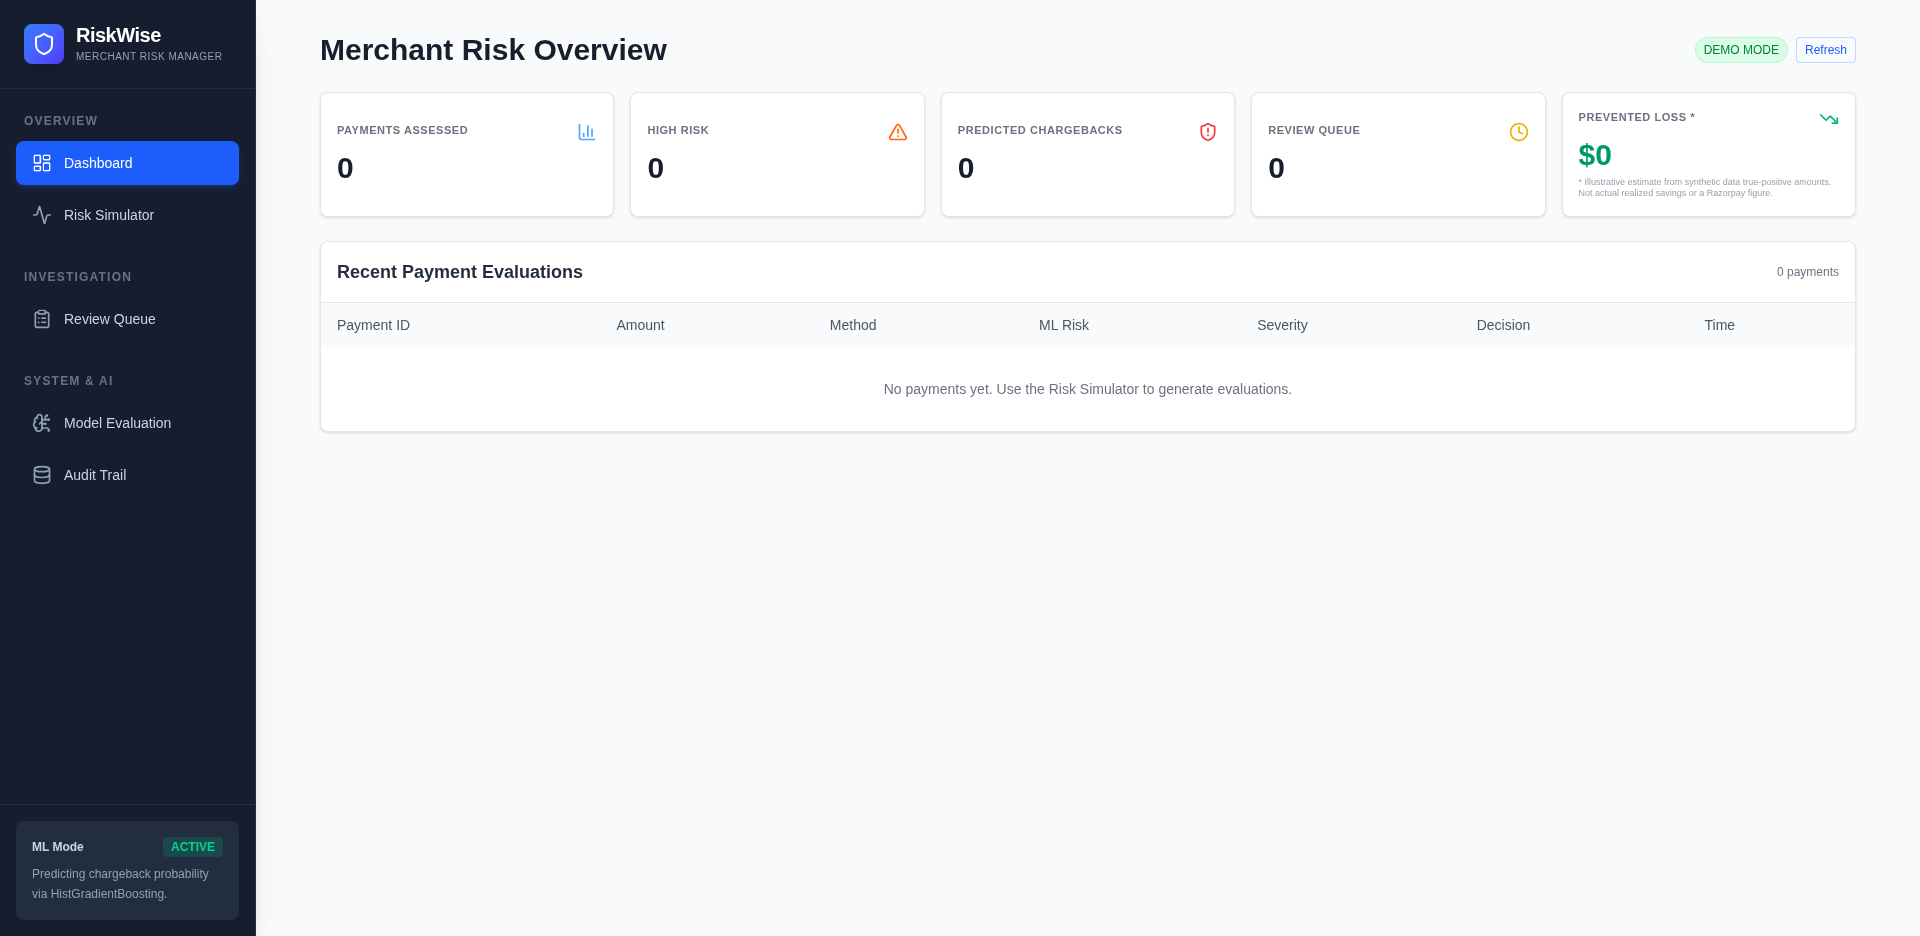
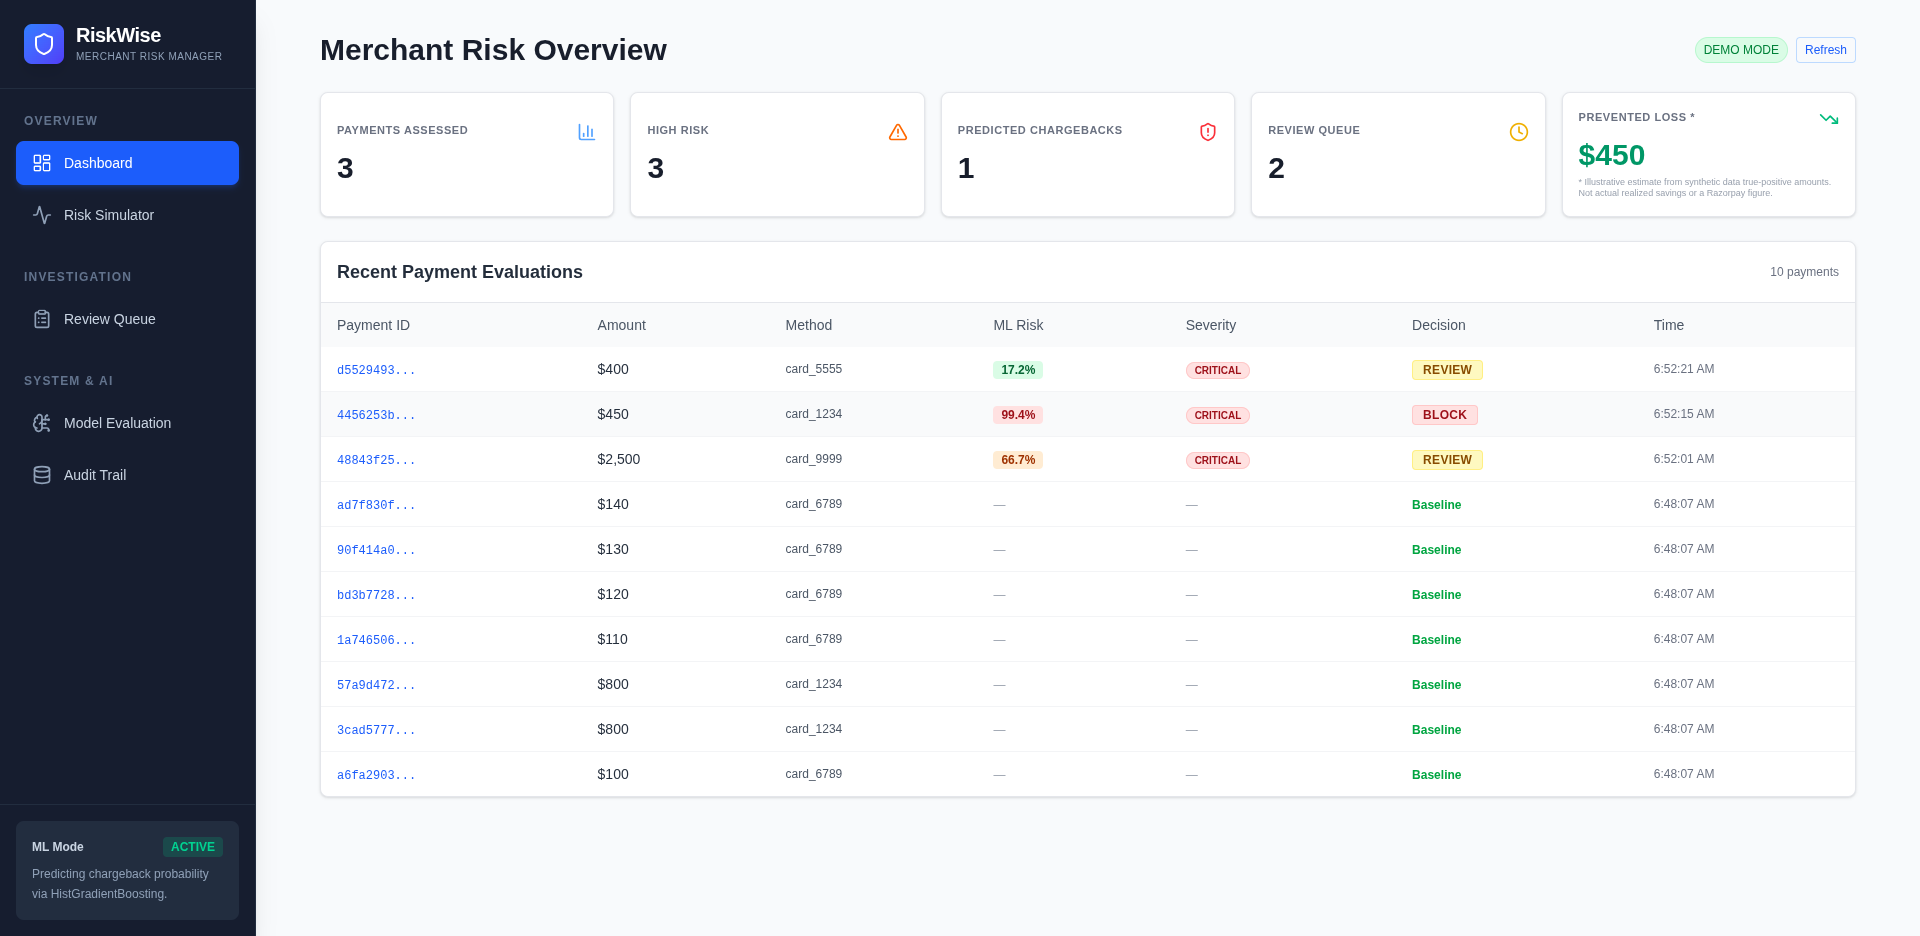
Mobile compatibility bugs fixed

diff --git a/src/components/ProjectStack3D.tsx b/src/components/ProjectStack3D.tsx
@@ -290,6 +290,7 @@ const ProjectStack3D = () => {
   const lastXRef = useRef(0);
   const velocityRef = useRef(0);
   const isHorizontalRef = useRef<boolean | null>(null);
+  const hasDraggedRef = useRef(false);
   const animationFrameRef = useRef<number>();
 
   // Custom CSS variables style object
@@ -305,6 +306,8 @@ const ProjectStack3D = () => {
   }, []);
 
   const openProject = (project: Project) => {
+    isDraggingRef.current = false;
+    isHorizontalRef.current = null;
     window.history.pushState({ modal: "project" }, "", "");
     setExpandedProject(project);
   };
@@ -316,6 +319,16 @@ const ProjectStack3D = () => {
       setExpandedProject(null);
     }
   };
+
+  // Reset pointer state when expandedProject changes
+  useEffect(() => {
+    if (expandedProject) {
+      isDraggingRef.current = false;
+      isHorizontalRef.current = null;
+      hasDraggedRef.current = false;
+      velocityRef.current = 0;
+    }
+  }, [expandedProject]);
 
   // JS-driven continuous rotation and drag handling
   useEffect(() => {
@@ -338,9 +351,56 @@ const ProjectStack3D = () => {
           }
         }
 
-        // Apply transform to the slider ref directly
+        const isMobile = window.innerWidth < 768;
+
         if (sliderRef.current) {
-          sliderRef.current.style.transform = `perspective(2500px) rotateX(-16deg) rotateY(${rotationRef.current}deg)`;
+          if (isMobile) {
+            // Mobile Coverflow
+            sliderRef.current.style.transform = `perspective(1200px) rotateX(0deg) rotateY(0deg)`;
+            
+            const progress = -rotationRef.current / (360 / PROJECTS.length);
+            const items = sliderRef.current.children;
+            
+            for (let i = 0; i < items.length; i++) {
+              const item = items[i] as HTMLElement;
+              let dist = (i - progress) % PROJECTS.length;
+              if (dist > PROJECTS.length / 2) dist -= PROJECTS.length;
+              if (dist < -PROJECTS.length / 2) dist += PROJECTS.length;
+              
+              const absDist = Math.abs(dist);
+              const isActive = absDist < 0.5;
+              
+              const zIndex = Math.max(0, 100 - Math.round(absDist * 10));
+              item.style.zIndex = zIndex.toString();
+              
+              if (absDist > 2.5) {
+                item.style.opacity = '0';
+                item.style.pointerEvents = 'none';
+              } else {
+                item.style.opacity = (1 - Math.max(0, absDist - 1.5) * 0.5).toString();
+                item.style.pointerEvents = isActive ? 'auto' : 'none';
+              }
+              
+              const translateX = dist * 85; 
+              const scale = Math.max(1 - 0.15 * absDist, 0.5);
+              const rotateY = dist * -25;
+              const translateZ = -absDist * 50;
+              
+              item.style.transform = `translateX(${translateX}%) translateZ(${translateZ}px) rotateY(${rotateY}deg) scale(${scale})`;
+            }
+          } else {
+            // Desktop Cylinder
+            sliderRef.current.style.transform = `perspective(2500px) rotateX(-16deg) rotateY(${rotationRef.current}deg)`;
+            
+            const items = sliderRef.current.children;
+            for (let i = 0; i < items.length; i++) {
+              const item = items[i] as HTMLElement;
+              item.style.transform = '';
+              item.style.zIndex = '';
+              item.style.opacity = '';
+              item.style.pointerEvents = '';
+            }
+          }
         }
       } else {
         // Reset lastTime to avoid huge delta jumps when modal closes
@@ -362,24 +422,17 @@ const ProjectStack3D = () => {
   const handlePointerDown = (e: React.PointerEvent) => {
     if (expandedProject) return;
 
-    isDraggingRef.current = true;
     startXRef.current = e.clientX;
     startYRef.current = e.clientY;
     lastXRef.current = e.clientX;
     velocityRef.current = 0;
     isHorizontalRef.current = null;
-
-    if (e.target instanceof Element) {
-      try {
-        e.target.setPointerCapture(e.pointerId);
-      } catch (err) {
-        // Ignore setPointerCapture errors on unmounted/invalid elements
-      }
-    }
+    isDraggingRef.current = false;
+    hasDraggedRef.current = false;
   };
 
   const handlePointerMove = (e: React.PointerEvent) => {
-    if (!isDraggingRef.current || expandedProject) return;
+    if (expandedProject) return;
 
     const deltaX = e.clientX - startXRef.current;
     const deltaY = e.clientY - startYRef.current;
@@ -388,10 +441,24 @@ const ProjectStack3D = () => {
     if (isHorizontalRef.current === null) {
       if (Math.abs(deltaX) > 10 || Math.abs(deltaY) > 10) {
         isHorizontalRef.current = Math.abs(deltaX) > Math.abs(deltaY);
+        
+        if (isHorizontalRef.current) {
+          isDraggingRef.current = true;
+          // Capture pointer on the interaction surface only when it's a horizontal drag
+          if (e.currentTarget instanceof Element) {
+            try {
+              e.currentTarget.setPointerCapture(e.pointerId);
+            } catch (err) {}
+          }
+        }
       }
     }
 
-    if (isHorizontalRef.current) {
+    if (Math.abs(deltaX) > 5 || Math.abs(deltaY) > 5) {
+      hasDraggedRef.current = true;
+    }
+
+    if (isHorizontalRef.current && isDraggingRef.current) {
       // Horizontal swipe
       const moveDelta = e.clientX - lastXRef.current;
 
@@ -401,11 +468,6 @@ const ProjectStack3D = () => {
       velocityRef.current = degDelta; // Base velocity for inertia
       rotationRef.current += degDelta;
 
-      // Update immediately to avoid 1 frame lag
-      if (sliderRef.current) {
-        sliderRef.current.style.transform = `perspective(2500px) rotateX(-16deg) rotateY(${rotationRef.current}deg)`;
-      }
-
       lastXRef.current = e.clientX;
     }
   };
@@ -414,9 +476,9 @@ const ProjectStack3D = () => {
     isDraggingRef.current = false;
     isHorizontalRef.current = null;
 
-    if (e.target instanceof Element) {
+    if (e.currentTarget instanceof Element) {
       try {
-        e.target.releasePointerCapture(e.pointerId);
+        e.currentTarget.releasePointerCapture(e.pointerId);
       } catch (err) { }
     }
   };
@@ -429,14 +491,11 @@ const ProjectStack3D = () => {
       onPointerMove={handlePointerMove}
       onPointerUp={handlePointerUp}
       onPointerCancel={handlePointerUp}
-      onPointerLeave={handlePointerUp}
     >
       <div
         ref={sliderRef}
         className="demo-slider absolute"
         style={{
-          width: "250px",
-          height: "360px",
           top: "12%",
           ...sliderStyle
         }}
@@ -449,7 +508,11 @@ const ProjectStack3D = () => {
               key={project.id}
               className="item group"
               style={itemStyle}
-              onClick={() => openProject(project)}
+              onClick={() => {
+                if (!hasDraggedRef.current) {
+                  openProject(project);
+                }
+              }}
             >
               <div
                 className="absolute inset-0 rounded-xl"

diff --git a/src/index.css b/src/index.css
@@ -366,17 +366,30 @@
 /* 3D Demo Slider CSS (JS Controlled now) */
 .demo-slider {
   transform-style: preserve-3d;
-  transform: perspective(2500px) rotateX(-16deg);
-  /* JS will control rotateY */
+  width: 85vw;
+  height: 60vh;
+  max-width: 340px;
+  max-height: 480px;
+  /* On mobile, parent doesn't rotate, JS controls per-item transforms */
+  transform: perspective(1200px) rotateX(0deg) rotateY(0deg);
 }
 
 .demo-slider .item {
   position: absolute;
   inset: 0 0 0 0;
-  transform: rotateY(calc((var(--position) - 1) * (360deg / var(--quantity)))) translateZ(350px);
+  /* Transforms are applied dynamically via JS on mobile */
 }
 
 @media (min-width: 768px) {
+  .demo-slider {
+    width: 250px;
+    height: 360px;
+    max-width: none;
+    max-height: none;
+    /* Desktop parent rotation */
+    transform: perspective(2500px) rotateX(-16deg);
+  }
+
   .demo-slider .item {
     transform: rotateY(calc((var(--position) - 1) * (360deg / var(--quantity)))) translateZ(550px);
   }

diff --git a/src/components/ProjectsSection.tsx b/src/components/ProjectsSection.tsx
@@ -58,7 +58,7 @@ const ProjectsSection = () => {
           transition={{ delay: 0.3 }}
           className="mt-8 text-center font-mono text-[9px] tracking-[0.12em] text-white/18 uppercase md:hidden"
         >
-          Use navigation arrows to browse projects
+          SWIPE TO BROWSE PROJECTS
         </motion.p>
       </div>
     </section>
